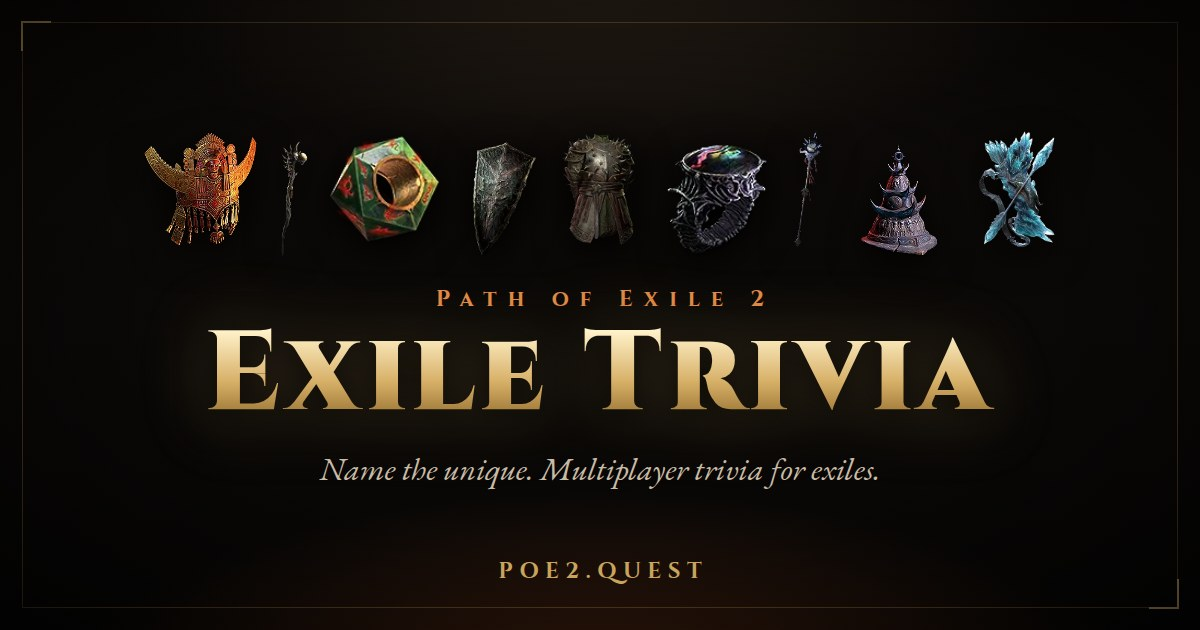
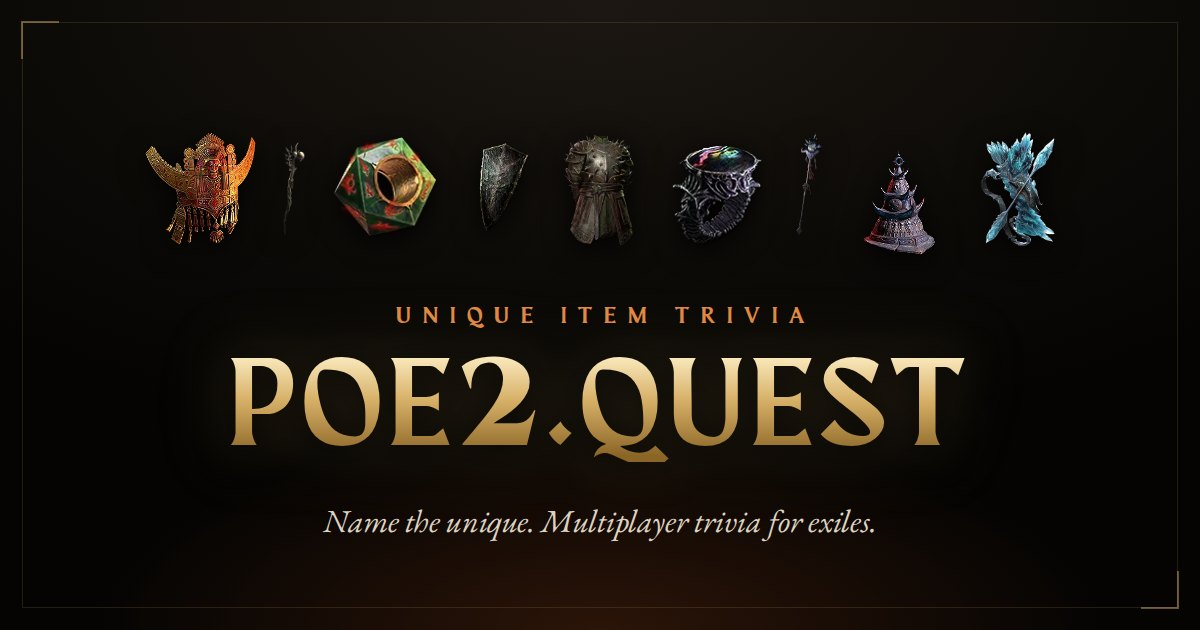
Render digits in Cinzel and rename the site to POE2.QUEST
- Maragsâ's old-style digits sit low, so its @font-face leaves 0-9 out
  of its unicode-range and every digit falls through to Cinzel, which is
  back as a dependency.
- Rename "Exile Trivia" to POE2.QUEST everywhere: start page title, header
  button, share sheet, page titles, link-preview tags, legal pages and
  README. The start page kicker now says "Unique Item Trivia".
- Regenerate og.jpg with the new name and fonts, same items and layout.

Claude-Session: https://claude.ai/code/session_01L7SeJAEPvgnRVsbZYPjWwd

diff --git a/impressum.html b/impressum.html
@@ -6,7 +6,7 @@
     <meta name="robots" content="noindex" />
     <link rel="icon" type="image/svg+xml" href="./favicon.svg" />
     <link rel="stylesheet" href="/src/legal/legal.css" />
-    <title>Impressum • Exile Trivia</title>
+    <title>Impressum • POE2.QUEST</title>
   </head>
   <body>
     <main class="legal">
@@ -27,7 +27,7 @@
 
       <h2>Hinweise</h2>
       <p>
-        Exile Trivia (poe2.quest) ist ein kostenloses, inoffizielles Fanprojekt von Minu Wagner („zoe_arcana“). Es
+        POE2.QUEST ist ein kostenloses, inoffizielles Fanprojekt von Minu Wagner („zoe_arcana“). Es
         steht in keiner Verbindung zu Grinding Gear Games und wird von Grinding Gear Games weder unterstützt noch
         gefördert. Path of Exile ist eine Marke von Grinding Gear Games. Die Namen und Bilder der Gegenstände sind
         Eigentum von Grinding Gear Games; die Daten stammen von <a href="https://poe2db.tw/" rel="noreferrer">poe2db.tw</a>.
@@ -57,7 +57,7 @@
         </address>
         <p>Email: <a href="mailto:info@poe2.quest">info@poe2.quest</a></p>
         <p>
-          Exile Trivia (poe2.quest) is a free, unofficial fan project by Minu Wagner ("zoe_arcana"). It is not affiliated
+          POE2.QUEST is a free, unofficial fan project by Minu Wagner ("zoe_arcana"). It is not affiliated
           with or endorsed by Grinding Gear Games. Path of Exile is a trademark of Grinding Gear Games. Item names and art
           belong to Grinding Gear Games; the data comes from <a href="https://poe2db.tw/" rel="noreferrer">poe2db.tw</a>.
           Optional tips via PayPal are voluntary; everything in the game stays free.

diff --git a/src/app.css b/src/app.css
@@ -1,17 +1,23 @@
+@import '@fontsource/cinzel/latin-500.css';
+@import '@fontsource/cinzel/latin-700.css';
+@import '@fontsource/cinzel/latin-900.css';
 @import '@fontsource/eb-garamond/latin-400.css';
 @import '@fontsource/eb-garamond/latin-500.css';
 @import '@fontsource/eb-garamond/latin-400-italic.css';
 
-/* Maragsâ Display by Jad Maza (free license, gum.co/Maragsa). The
-   license allows web use only as WOFF/WOFF2 through @font-face. It has a single
-   weight, so the face claims the whole weight range: bold text uses the real
-   glyphs instead of a smeared, browser-faked bold. */
+/* Maragsâ Display by Jad Maza (free license, gum.co/Maragsa). The license
+   allows web use only as WOFF/WOFF2 through @font-face. It has a single weight,
+   so the face claims the whole weight range: bold text uses the real glyphs
+   instead of a smeared, browser-faked bold. Its digits are old-style and sit
+   low, so the unicode-range leaves 0-9 out and every digit falls through to
+   Cinzel, the next font in --font-display. */
 @font-face {
   font-family: 'Maragsa';
   src: url('./assets/fonts/maragsa-display.woff2') format('woff2');
   font-weight: 100 900;
   font-style: normal;
   font-display: swap;
+  unicode-range: U+0000-002F, U+003A-10FFFF;
 }
 
 :root {
@@ -30,7 +36,7 @@
   --good: #6fcf73;
   --bad: #e0553f;
   --radius: 6px;
-  --font-display: 'Maragsa', 'EB Garamond', Georgia, serif;
+  --font-display: 'Maragsa', 'Cinzel', 'Trajan Pro', Georgia, serif;
   --font-body: 'EB Garamond', Garamond, Georgia, serif;
   --ease-out: cubic-bezier(0.22, 1, 0.36, 1);
   --ease-back: cubic-bezier(0.34, 1.56, 0.64, 1);

diff --git a/index.html b/index.html
@@ -10,15 +10,15 @@
     <link rel="canonical" href="https://poe2.quest/" />
     <meta property="og:type" content="website" />
     <meta property="og:url" content="https://poe2.quest/" />
-    <meta property="og:title" content="Exile Trivia • PoE2 Unique Item Quiz" />
+    <meta property="og:title" content="POE2.QUEST • PoE2 Unique Item Quiz" />
     <meta property="og:description" content="Multiplayer Path of Exile 2 trivia: name the unique or lineage gem from its art. Made by zoe_arcana." />
     <meta property="og:image" content="https://poe2.quest/og.jpg" />
     <meta property="og:image:width" content="1200" />
     <meta property="og:image:height" content="630" />
-    <meta property="og:image:alt" content="Exile Trivia • a Path of Exile 2 unique item quiz" />
+    <meta property="og:image:alt" content="POE2.QUEST • a Path of Exile 2 unique item quiz" />
     <meta name="twitter:card" content="summary_large_image" />
     <meta name="twitter:image" content="https://poe2.quest/og.jpg" />
-    <title>Exile Trivia • PoE2 Unique Item Quiz</title>
+    <title>POE2.QUEST • PoE2 Unique Item Quiz</title>
   </head>
   <body>
     <div id="app"></div>

diff --git a/datenschutz.html b/datenschutz.html
@@ -6,7 +6,7 @@
     <meta name="robots" content="noindex" />
     <link rel="icon" type="image/svg+xml" href="./favicon.svg" />
     <link rel="stylesheet" href="/src/legal/legal.css" />
-    <title>Datenschutz • Exile Trivia</title>
+    <title>Datenschutz • POE2.QUEST</title>
   </head>
   <body>
     <main class="legal">
@@ -25,7 +25,7 @@
 
       <h2>2. Überblick</h2>
       <p>
-        Exile Trivia ist ein Browserspiel ohne eigenen Server, ohne Benutzerkonten, ohne Cookies und ohne Tracking oder
+        POE2.QUEST ist ein Browserspiel ohne eigenen Server, ohne Benutzerkonten, ohne Cookies und ohne Tracking oder
         Analyse-Dienste. Schriftarten und Bilder werden von dieser Website selbst ausgeliefert, nicht von Drittanbietern.
         Spielstände werden nicht zentral gespeichert: Das Spiel läuft im Browser der Person, die einen Raum eröffnet
         („Host“), und die Geräte der Mitspielenden verbinden sich direkt miteinander.

diff --git a/src/components/Home.svelte b/src/components/Home.svelte
@@ -85,9 +85,9 @@
         />
       {/each}
     </div>
-    <p class="kicker" in:fly={{ y: -10, duration: 600, delay: 100 }}>Path of Exile 2</p>
+    <p class="kicker" in:fly={{ y: -10, duration: 600, delay: 100 }}>Unique Item Trivia</p>
     <h1 use:backdropDropShadow in:fly={{ y: 20, duration: 800, delay: 200 }}>
-      <span class="line"></span>Exile Trivia<span class="line"></span>
+      <span class="line"></span>POE2.QUEST<span class="line"></span>
     </h1>
     <p class="tagline" in:fade={{ duration: 800, delay: 500 }}>
       Name the unique. {total} uniques and lineage gems. Can you tell them apart?

diff --git a/src/components/Lobby.svelte b/src/components/Lobby.svelte
@@ -50,7 +50,7 @@
   async function copy() {
     try {
       if (navigator.share && matchMedia('(pointer: coarse)').matches) {
-        await navigator.share({ title: 'Exile Trivia', text: `Join my PoE2 trivia room ${session.code}`, url: inviteLink });
+        await navigator.share({ title: 'POE2.QUEST', text: `Join my PoE2 trivia room ${session.code}`, url: inviteLink });
       } else {
         await navigator.clipboard.writeText(inviteLink);
         copied = true;

diff --git a/src/App.svelte b/src/App.svelte
@@ -46,7 +46,7 @@
     <header in:fade={{ duration: 300 }}>
       <button class="brand" onclick={() => (confirmLeave = true)} title="Leave game">
         <span class="brand-mark">◆</span>
-        <span>Exile Trivia</span>
+        <span>POE2.QUEST</span>
       </button>
       <div class="meta">
         {#if gs && screen === 'game'}

diff --git a/src/components/QuestionView.svelte b/src/components/QuestionView.svelte
@@ -572,7 +572,7 @@
     flex: none;
     width: 28px;
     height: 28px;
-    /* The display font's line box sits its digits a pixel high; nudge them to the optical centre. */
+    /* Cinzel's line box sits its digits a pixel high; nudge them to the optical centre. */
     padding-top: 2px;
     display: grid;
     place-items: center;

diff --git a/CLAUDE.md b/CLAUDE.md
@@ -1,4 +1,4 @@
 # Project notes
 
 - Never use em dashes anywhere in the project (UI text, HTML, docs, comments). Use a bullet (•) instead. `tests/style.test.ts` enforces this.
-- The display font is Maragsâ Display (`src/assets/fonts/maragsa-display.woff2`). Its license only allows serving it as WOFF/WOFF2 through `@font-face`, so don't add the OTF.
+- The display font is Maragsâ Display (`src/assets/fonts/maragsa-display.woff2`). Its license only allows serving it as WOFF/WOFF2 through `@font-face`, so don't add the OTF. Its digits don't fit the UI, so its `@font-face` leaves 0-9 out and digits render in Cinzel.

diff --git a/README.md b/README.md
@@ -1,4 +1,4 @@
-# Exile Trivia • PoE2 unique item quiz
+# POE2.QUEST • PoE2 unique item quiz
 
 **Play at [poe2.quest](https://poe2.quest/)** · made by zoe_arcana · [support the project](https://paypal.me/minuW)
 
